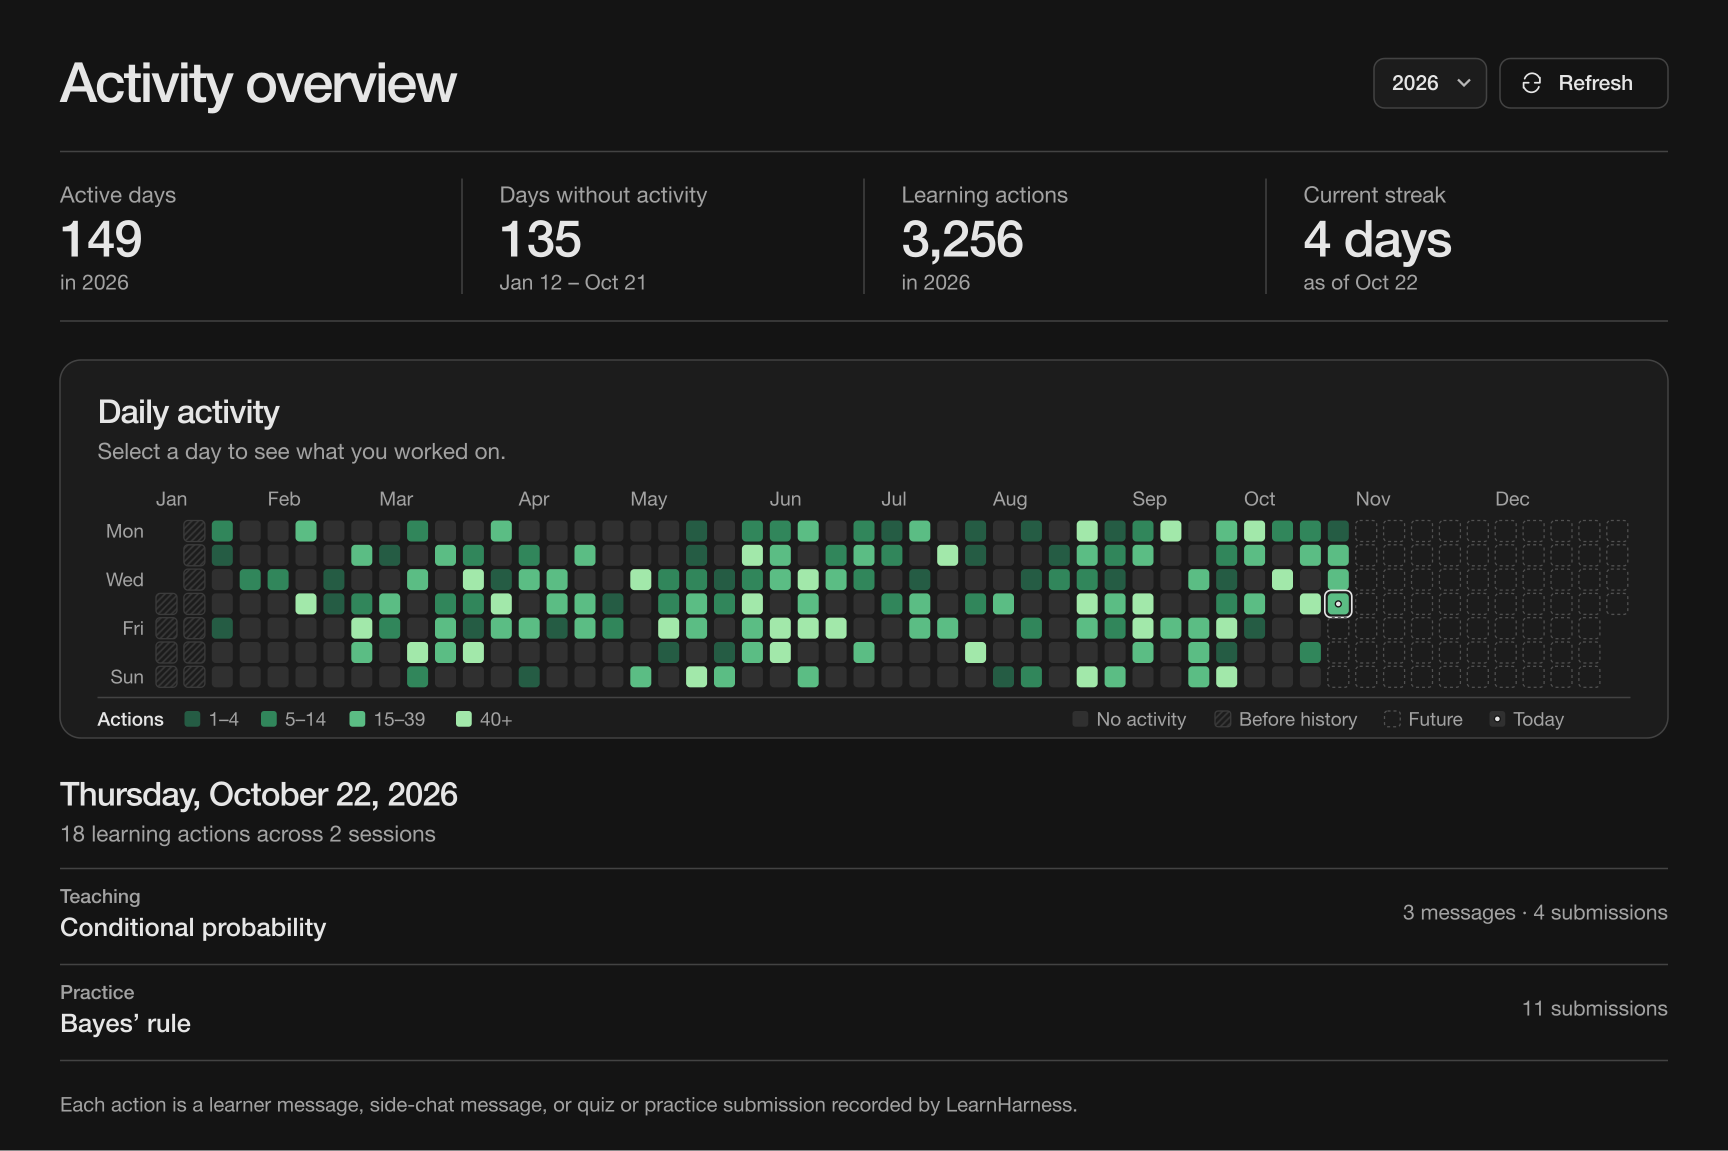
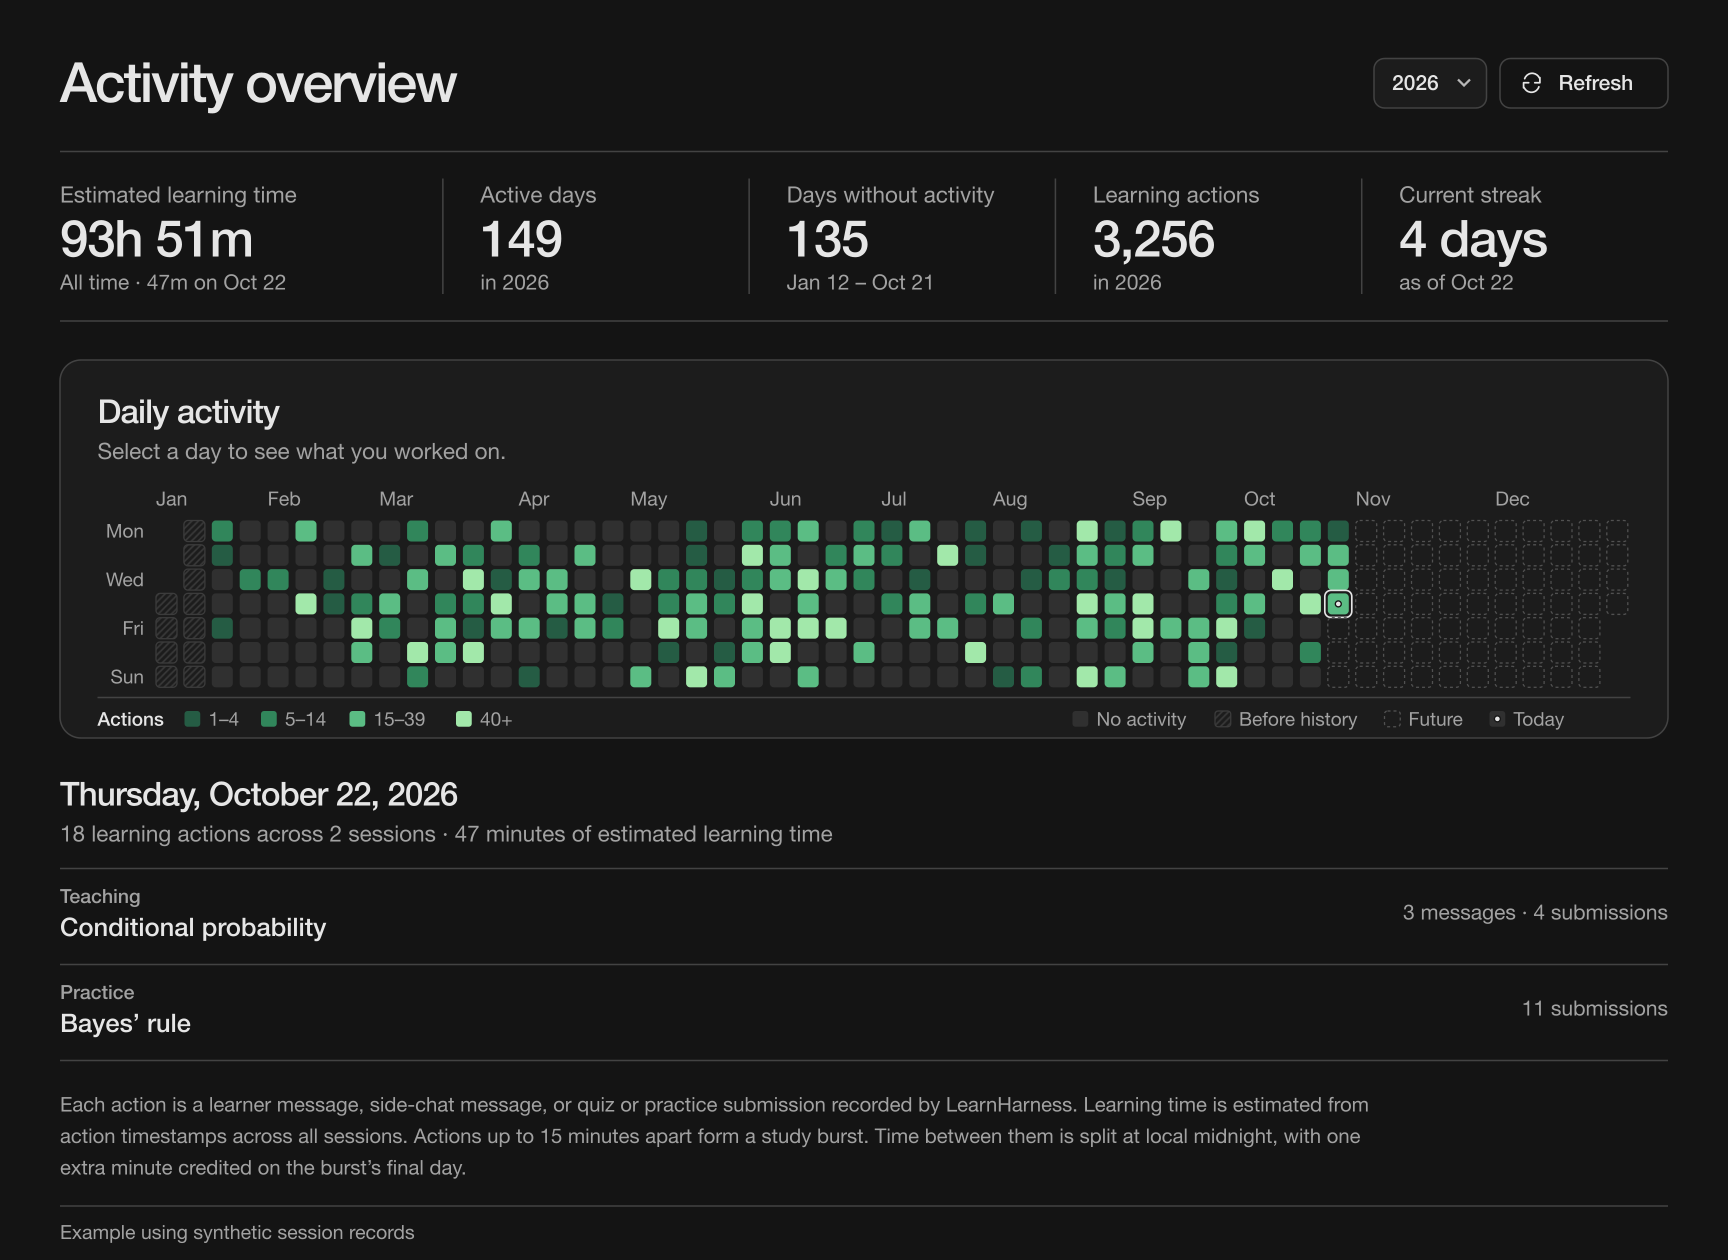
Show daily and all-time estimated learning time

diff --git a/dist/main.js b/dist/main.js
@@ -4,6 +4,7 @@ const months = new Intl.DateTimeFormat('en', {month: 'short', timeZone: 'UTC'});
 const fullDate = new Intl.DateTimeFormat('en', {weekday: 'long', month: 'long', day: 'numeric', year: 'numeric', timeZone: 'UTC'});
 const shortDate = new Intl.DateTimeFormat('en', {month: 'short', day: 'numeric', timeZone: 'UTC'});
 const dayLength = 86400000;
+const estimateMethod = 'Learning time is estimated from action timestamps across all sessions. Actions up to 15 minutes apart form a study burst. Time between them is split at local midnight, with one extra minute credited on the burst’s final day.';
 
 function el(tag, cls, text) {
   const node = document.createElement(tag);
@@ -24,6 +25,27 @@ function localToday() {
 function weekday(key) { return (dateValue(key).getUTCDay() + 6) % 7; }
 function plural(value, singular, multiple = singular + 's') {
   return value.toLocaleString('en') + ' ' + (value === 1 ? singular : multiple);
+}
+function validTime(ms) { return Number.isFinite(ms) && ms >= 0; }
+function duration(ms, compact = false) {
+  if (ms > 0 && ms < 60000) return compact ? '<1m' : 'less than 1 minute';
+  const minutes = Math.round(ms / 60000);
+  const hours = Math.floor(minutes / 60);
+  const rest = minutes % 60;
+  const parts = [];
+  if (hours) parts.push(compact ? hours.toLocaleString('en') + 'h' : plural(hours, 'hour'));
+  if (rest || !hours) parts.push(compact ? rest + 'm' : plural(rest, 'minute'));
+  return parts.join(' ');
+}
+function totalTime(days) {
+  const timed = days.filter(day => validTime(day.estimatedMs));
+  if (days.length && !timed.length) return 'Unavailable';
+  const ms = timed.reduce((sum, day) => sum + day.estimatedMs, 0);
+  return duration(ms, true) + (days.length === timed.length ? '' : ' (partial)');
+}
+function dayTime(entry) {
+  const ms = entry ? entry.estimatedMs : 0;
+  return validTime(ms) ? duration(ms) + ' of estimated learning time' : 'Learning time estimate unavailable';
 }
 function intensity(count) { return count >= 40 ? 'four' : count >= 15 ? 'three' : count >= 5 ? 'two' : 'one'; }
 function currentStreak(records, today) {
@@ -63,6 +85,11 @@ function mountCalendar(ctx, container, signal) {
   const status = el('p', 'lc-status', 'Reading your learning history…');
   status.setAttribute('role', 'status');
   const stats = el('dl', 'lc-stats');
+  const timeStat = stat('Estimated learning time', '', '');
+  timeStat.classList.add('lc-stat-time');
+  timeStat.title = estimateMethod;
+  const timeValue = timeStat.querySelector('.lc-stat-value');
+  const timeNote = timeStat.querySelector('.lc-stat-note');
   const panel = el('section', 'lc-panel');
   const panelHeading = el('div', 'lc-panel-heading');
   panelHeading.append(el('h2', 'lc-section-title', 'Daily activity'), el('p', 'lc-muted', 'Select a day to see what you worked on.'));
@@ -92,7 +119,7 @@ function mountCalendar(ctx, container, signal) {
   detailHeading.setAttribute('aria-live', 'polite');
   const detailBody = el('div', 'lc-detail-body');
   detail.append(detailHeading, detailBody);
-  const footer = el('p', 'lc-source', 'Each action is a learner message, side-chat message, or quiz or practice submission recorded by LearnHarness.');
+  const footer = el('p', 'lc-source', 'Each action is a learner message, side-chat message, or quiz or practice submission recorded by LearnHarness. ' + estimateMethod);
   content.append(header, status, stats, panel, detail, footer);
   root.append(content);
   container.append(root);
@@ -122,9 +149,13 @@ function mountCalendar(ctx, container, signal) {
   }
   function description(date) {
     const entry = records.get(date);
-    const value = entry ? plural(entry.count, 'action') :
-      date > today ? 'Future day' : stateOf(date) === 'before' ? 'Before recorded history' : 'No recorded activity';
-    return fullDate.format(dateValue(date)) + ' · ' + value + (date === today ? ' · Today' : '');
+    const state = stateOf(date);
+    const parts = [fullDate.format(dateValue(date))];
+    if (state === 'future') parts.push('Future day');
+    else if (state === 'before') parts.push('Before recorded history');
+    else parts.push(entry ? plural(entry.count, 'action') : 'No recorded activity', dayTime(entry));
+    if (date === today) parts.push('Today');
+    return parts.join(' · ');
   }
   function datesInYear() {
     const prefix = year + '-';
@@ -160,7 +191,9 @@ function mountCalendar(ctx, container, signal) {
     const completed = first && start <= end ? Math.round((dateValue(end) - dateValue(start)) / dayLength) + 1 : 0;
     const inactive = completed - dates.filter(key => key >= start && key <= end).length;
     const historyRange = completed ? shortDate.format(dateValue(start)) + ' – ' + shortDate.format(dateValue(end)) : 'no completed days';
+    timeValue.textContent = totalTime([...records.values()]);
     stats.replaceChildren(
+      timeStat,
       stat('Active days', dates.length.toLocaleString('en'), 'in ' + year),
       stat('Days without activity', inactive.toLocaleString('en'), historyRange),
       stat('Learning actions', total.toLocaleString('en'), 'in ' + year),
@@ -170,13 +203,21 @@ function mountCalendar(ctx, container, signal) {
   function renderDetail() {
     detailHeading.textContent = fullDate.format(dateValue(selected));
     const data = records.get(selected);
+    const state = stateOf(selected);
+    const date = shortDate.format(dateValue(selected));
+    const ms = data ? data.estimatedMs : 0;
+    const selectedTime = state === 'before' ? date + ' precedes recorded history' :
+      state === 'future' ? date + ' is in the future' :
+      validTime(ms) ? duration(ms, true) + ' on ' + date : 'No estimate for ' + date;
+    timeNote.textContent = 'All time · ' + selectedTime;
     if (!data) {
       const message = selected === today ? 'No learning activity recorded today yet.' :
-        stateOf(selected) === 'before' ? 'This date is before your first recorded learning activity.' : 'No learning activity recorded on this day.';
-      detailBody.replaceChildren(el('p', 'lc-empty', !first && selected < today ? 'Your learning history is empty.' : message));
+        state === 'before' ? 'This date is before your first recorded learning activity.' : 'No learning activity recorded on this day.';
+      const text = !first && selected < today ? 'Your learning history is empty.' : message;
+      detailBody.replaceChildren(el('p', 'lc-empty', state === 'empty' ? text + ' ' + dayTime(data) + '.' : text));
       return;
     }
-    const summary = el('p', 'lc-detail-summary', plural(data.count, 'learning action') + ' across ' + plural(data.sessions.length, 'session'));
+    const summary = el('p', 'lc-detail-summary', plural(data.count, 'learning action') + ' across ' + plural(data.sessions.length, 'session') + ' · ' + dayTime(data));
     const list = el('ul', 'lc-sessions');
     for (const session of data.sessions) {
       const row = el('li', 'lc-session');

diff --git a/dist/styles.css b/dist/styles.css
@@ -41,11 +41,12 @@
 .lh-learning-calendar .lc-year { font: inherit; font-size: .875rem; font-weight: 550; padding: .3rem .45rem; min-height: 2rem; border: 1px solid var(--lc-border); border-radius: 0.5rem; background: var(--lc-panel); color: var(--lc-ink); cursor: pointer; }
 .lh-learning-calendar .lc-status { margin: 1.25rem 0 0; font-size: .875rem; line-height: 1.6; overflow-wrap: anywhere; }
 .lh-learning-calendar .lc-status:empty { display: none; }
-.lh-learning-calendar .lc-stats { display: grid; grid-template-columns: repeat(4, minmax(0, 1fr)); margin: 1.7rem 0; padding: 1.25rem 0; border-block: 1px solid var(--lc-border); }
+.lh-learning-calendar .lc-stats { display: grid; grid-template-columns: minmax(0, 1.25fr) repeat(4, minmax(0, 1fr)); margin: 1.7rem 0; padding: 1.25rem 0; border-block: 1px solid var(--lc-border); }
 .lh-learning-calendar .lc-stat { padding-inline: clamp(.6rem, 2.8cqw, 1.8rem); border-inline-start: 1px solid var(--lc-border); }
 .lh-learning-calendar .lc-stat:first-child { padding-left: 0; border-inline-start: 0; }
 .lh-learning-calendar .lc-stat-label { color: var(--lc-muted); font-size: .875rem; }
 .lh-learning-calendar .lc-stat-value { margin: .28rem 0 0; font-size: clamp(1.35rem, 3.1cqw, 2.2rem); font-weight: 550; line-height: 1.15; letter-spacing: -.04em; font-variant-numeric: tabular-nums; }
+.lh-learning-calendar .lc-stat-time .lc-stat-value { overflow-wrap: anywhere; }
 .lh-learning-calendar .lc-stat-note { margin: .2rem 0 0; color: var(--lc-muted); font-size: .8125rem; }
 .lh-learning-calendar .lc-panel { --lc-cell: clamp(11px, 1.3cqw, 17px); --lc-gap: clamp(3px, .35cqw, 5px); padding: clamp(.8rem, 2.4cqw, 1.8rem); background: var(--lc-panel); border: 1px solid var(--lc-border); border-radius: .85rem; }
 .lh-learning-calendar .lc-section-title { margin: 0; font-size: clamp(1.08rem, 2.2cqw, 1.34rem); letter-spacing: -.025em; line-height: 1.35; font-weight: 610; }
@@ -93,7 +94,12 @@
   .lh-learning-calendar .lc-counts { max-width: 100%; text-align: left; }
 }
 
+@container (max-width: 800px) {
+  .lh-learning-calendar .lc-stats { grid-template-columns: repeat(4, minmax(0, 1fr)); row-gap: 1.05rem; }
+  .lh-learning-calendar .lc-stat-time { grid-column: 1 / -1; }
+  .lh-learning-calendar .lc-stat:nth-child(2) { padding-left: 0; border-inline-start: 0; }
+}
 @container (max-width: 580px) {
-  .lh-learning-calendar .lc-stats { grid-template-columns: repeat(2, minmax(0, 1fr)); row-gap: 1.05rem; padding-block: .95rem; }
-  .lh-learning-calendar .lc-stat:nth-child(3) { padding-left: 0; border-inline-start: 0; }
+  .lh-learning-calendar .lc-stats { grid-template-columns: repeat(2, minmax(0, 1fr)); padding-block: .95rem; }
+  .lh-learning-calendar .lc-stat:nth-child(4) { padding-left: 0; border-inline-start: 0; }
 }

diff --git a/README.md b/README.md
@@ -1,10 +1,10 @@
 # Learning calendar for LearnHarness
 
-A community plugin that adds a GitHub-style activity calendar to the LearnHarness sidebar. Each square represents one day in your local time zone. Select a square to see the sessions you worked on, then select a session to reopen it.
+A community plugin that adds a GitHub-style activity calendar to the LearnHarness sidebar. Each square represents one day in your local time zone. Select a square to see the sessions you worked on, then select a session to reopen it. The header shows estimated learning time across all years, and the selected day shows its own estimate.
 
-![Learning calendar with a year of daily activity and a selected day showing two sessions](docs/images/learning-calendar-example.png)
+![Learning calendar showing 93h 51m across all years and 47m on October 22](docs/images/learning-calendar-example.png)
 
-*Example with sample data. October 22 shows 18 learning actions across two sessions.*
+*Example with sample data. The calendar estimates 93 hours 51 minutes in total, including 47 minutes across two sessions on October 22.*
 
 ## Install
 
@@ -14,11 +14,19 @@ Requires LearnHarness 0.6.0 or a compatible later version. The files in `dist/` 
 2. Download [the installable plugin ZIP](https://github.com/happyer29/learnharness-learning-calendar/raw/refs/heads/main/downloads/learning-calendar.zip), unzip it, and move the extracted `learning-calendar` folder into that directory. Alternatively, run `git clone https://github.com/happyer29/learnharness-learning-calendar.git learning-calendar` from the plugins directory. The final path should end in `plugins/learning-calendar/dist/manifest.json`.
 3. Click **Refresh plugins**, enable **Learning calendar**, and open it from the sidebar.
 
+**Updating on a Mac:** Extract the ZIP and open `Update-Learning-Calendar.command` inside the `learning-calendar` folder. If Finder cannot execute it, open Terminal in that folder and run `/bin/bash Update-Learning-Calendar.command`. Quit and reopen LearnHarness to load the update. For a manual update, replace only the existing plugin’s `dist` folder so your plugin data and preferences are preserved.
+
 ## Reading the calendar
 
 Green squares show recorded learner messages, side-chat messages, and submitted answers or practice work. Color intensity reflects the number of actions. A blank day within the recorded period means no learner action was saved. Passive reading leaves no record. Dates before your first activity and dates in the future have their own markings.
 
 Choose a year to see its active days, completed days without activity, and total actions. The current streak counts consecutive active days through today, or through yesterday while today is still open.
+
+### How the time estimate works
+
+The calendar combines timestamped learner actions from every session into one timeline. A gap of **15 minutes or less** counts as learning time, even when you switch between chats. A longer gap starts a new study burst. Each burst gets **one extra minute** on the day of its last action, so a single recorded action counts as one minute. For example, actions at 10:00, 10:08, and 14:00 give an estimate of **10 minutes**: eight minutes between the first two actions, plus one minute for each of the two bursts.
+
+Short gaps that cross midnight are split between the two local dates. The all-time total spans your recorded history even when you select a different calendar year. Reading or thinking away from the chat can go unrecorded.
 
 The plugin reads saved sessions on your device through LearnHarness. It does not change session records or send them to a network service.
 
